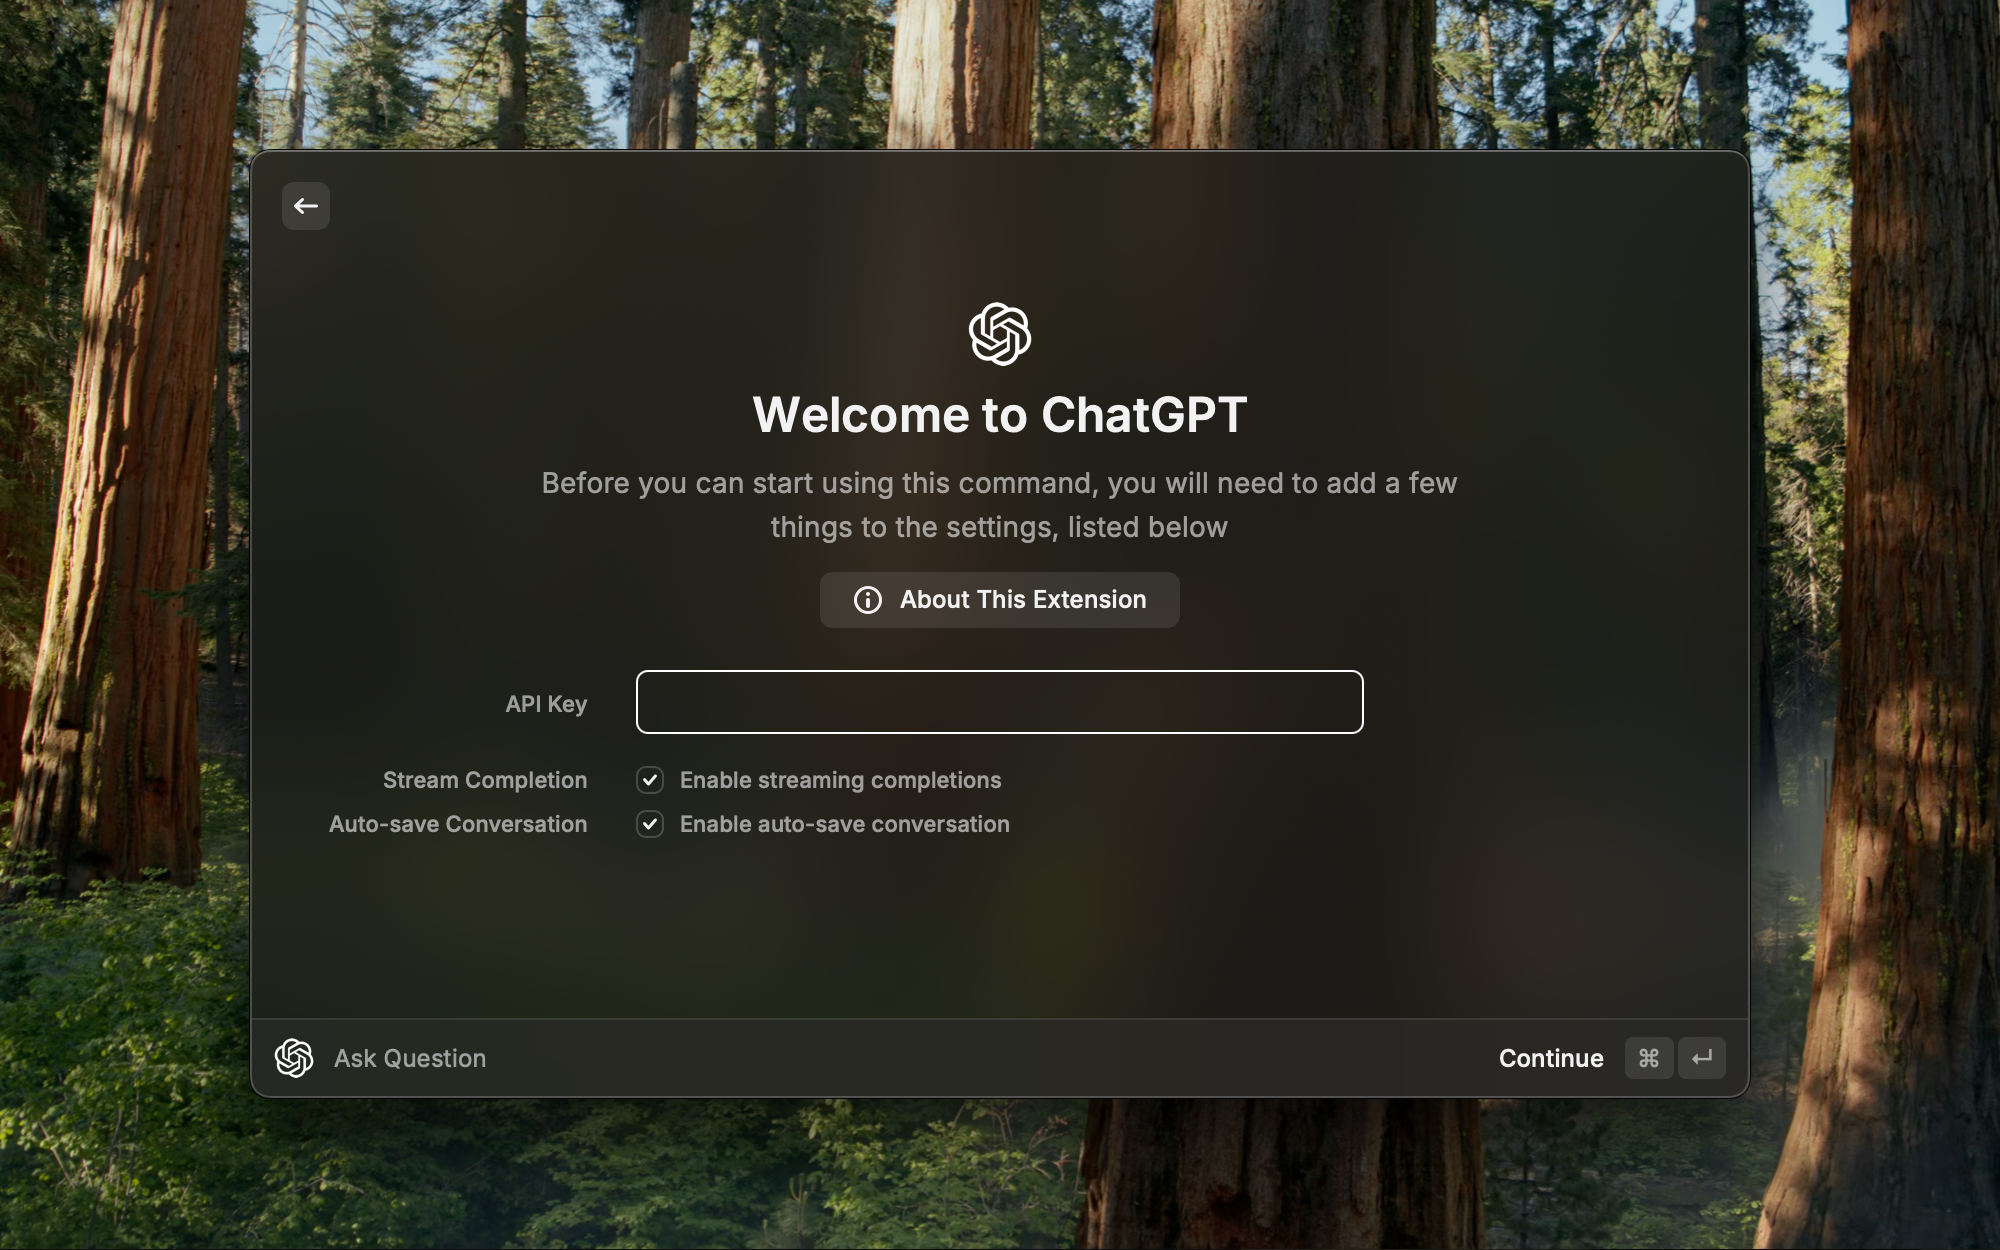
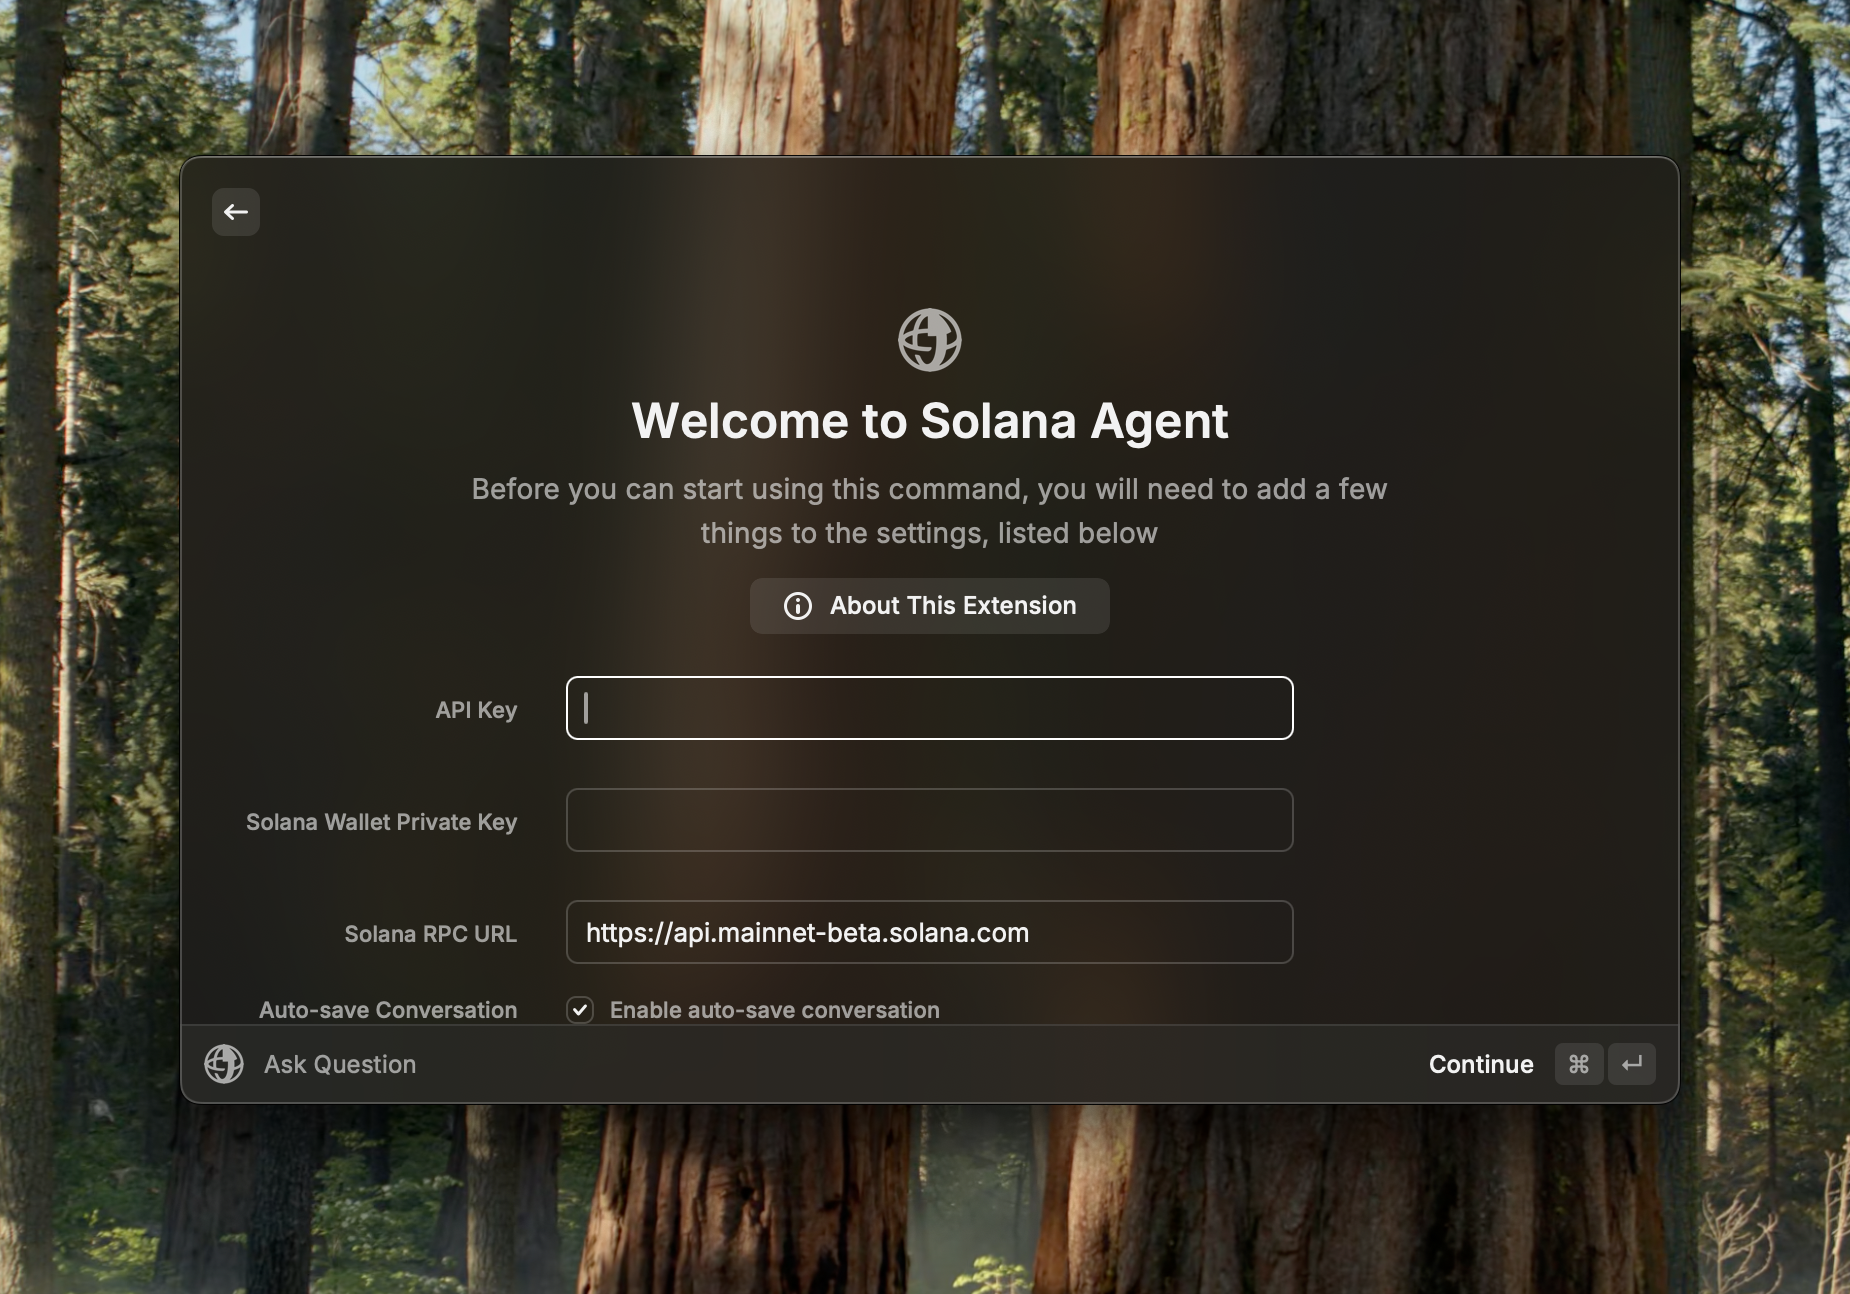
chore: update readme and preferences

diff --git a/src/hooks/useChat.tsx b/src/hooks/useChat.tsx
@@ -20,11 +20,6 @@ export function useChat<T extends Chat>(props: T[]): ChatHook {
   const [selectedChatId, setSelectedChatId] = useState<string | null>(null);
   const [isLoading, setLoading] = useState<boolean>(false);
   const [isAborted, setIsAborted] = useState<boolean>(false);
-  const [useStream] = useState<boolean>(() => {
-    return getPreferenceValues<{
-      useStream: boolean;
-    }>().useStream;
-  });
   const [streamData, setStreamData] = useState<Chat | undefined>();
   const abortControllerRef = useRef<AbortController | null>(null);
 

diff --git a/src/type.ts b/src/type.ts
@@ -7,7 +7,6 @@ export interface Preferences {
   apiKey: string;
   rpcUrl: string;
   privateKey: string;
-  useStream: boolean;
   isAutoSaveConversation: boolean;
   isHistoryPaused: boolean;
   isAutoLoadText: boolean;

diff --git a/README.md b/README.md
@@ -8,13 +8,13 @@
 Interact with the Solana blockchain from Raycast using AI models
 </h3>
 
-<!-- ![Conversation View](metadata/1.png)
+![Conversation View](metadata/1.png)
 
 # Features
 
 ### Ask anything, from your favourite thing
 
-Straight from your command bar, ask anything that you wanted and get an AI-generated answer without any effort.
+Interact with your Solana wallet straight from Raycast. Ask anything about your wallet, balance, carry out swaps, transfers, and more.
 
 ![Ask anything](metadata/2.png)
 
@@ -30,26 +30,12 @@ Continue talking about everything right where you left off. Be pro without from 
 
 ![Initial set-up](metadata/7.png)
 
-### Save the answer, for later
-
-Got the answer that you wanted? Great. Now you can save it without asking again.
-
-![Saving the answer](metadata/4.png)
-
-### Look-up your past, fast
-
-Automatically save all the question and answer so you can go back digging for the answer you're looking, quickly.
-
-![Looking through the question history](metadata/5.png)
-
 ### Use AI commands and create your own
 
 Process text taken from anywhere (selected text, clipboard text, opened web page) and
 insert the result into the frontmost application or copy it to the clipboard.
 
 ![Search AI commands and create a quicklink to the command and use it easily](metadata/8.png)
-
-![AI command in action](metadata/9.png)
 
 # Models
 
@@ -61,7 +47,7 @@ Modify the preferences properties to configure the API Endpoint and use custom m
 
 # How to use
 
-This extension requires a valid `Secret Key` as your API Key from [OpenAI](https://platform.openai.com/account/api-keys) with a `pay-as-you-go` plan account (**you'll get a `429` error if you're on a `free-tier` account**).
+This extension requires a valid `API key` as your API Key from [OpenAI](https://platform.openai.com/account/api-keys) with a `pay-as-you-go` plan account (**you'll get a `429` error if you're on a `free-tier` account**), a valid base 58 `Secret Key` secret key for your Solana wallet, and a valid RPC URL for the Solana mainnet network.
 
 ![Initial set-up](metadata/6.png)
 
@@ -69,12 +55,11 @@ This extension requires a valid `Secret Key` as your API Key from [OpenAI](https
 
 # Preferences
 
-All preferences properties list that can be customize through `Raycast Settings > Extensions > ChatGPT`
+All preferences properties list that can be customize through `Raycast Settings > Extensions > Solana Agent`
 
 | Properties               | Label                  | Value                               | Required | Default                     | Description                                                                                                      |
 | ------------------------ | ---------------------- | ----------------------------------- | -------- | --------------------------- | ---------------------------------------------------------------------------------------------------------------- |
 | `apiKey`                 | API Key                | `string`                            | `true`   | `empty`                     | Your personal OpenAI API key                                                                                     |
-| `useStream`              | Stream Completion      | `boolean`                           | `true`   | `true`                      | Stream the completions of the generated answer                                                                   |
 | `isAutoSaveConversation` | Auto-save Conversation | `boolean`                           | `true`   | `true`                      | Auto-save every conversation that you had with the model                                                         |
 | `isHistoryPaused`        | Pause History          | `boolean`                           | `false`  | `false`                     | Pause the history of the conversation                                                                            |
 | `isAutoLoadText`         | Auto-load              | `boolean`                           | `false`  | `false`                     | Load selected text from your frontmost application to the `question bar` or `full text input form` automatically |
@@ -91,22 +76,8 @@ All preferences properties list that can be customize through `Raycast Settings 
 | `azureEndpoint`          | Azure Endpoint         | `string`                            | `false`  | `empty`                     | Azure OpenAI resource endpoint                                                                                   |
 | `azureDeploymentName`    | Azure Deployment       | `string`                            | `false`  | `empty`                     | Azure OpenAI resource deployment                                                                                 |
 
-### How to use Azure OpenAI
-
-1. Copy and paste your Azure OpenAI's `KEY` value to the `API key` field
-
-2. Copy and paste your Azure OpenAI `Endpoint` value to the `Azure Endpoint` field. Then, Tick the `Use Azure OpenAI` checkbox
-
-3. Copy and paste your Azure OpenAI `Model deployment name` value to the `Azure Deployment` field
-
-# Support
-
-Donate to support the development of this extension. Thank you!
-
-[![ko-fi](https://ko-fi.com/img/githubbutton_sm.svg)](https://ko-fi.com/abielzulio)
-
 ---
 
 <p align="right">
-Made with ♥ from Indonesia
-</p> -->
+Made with ♥ from the SendAI team
+</p>
